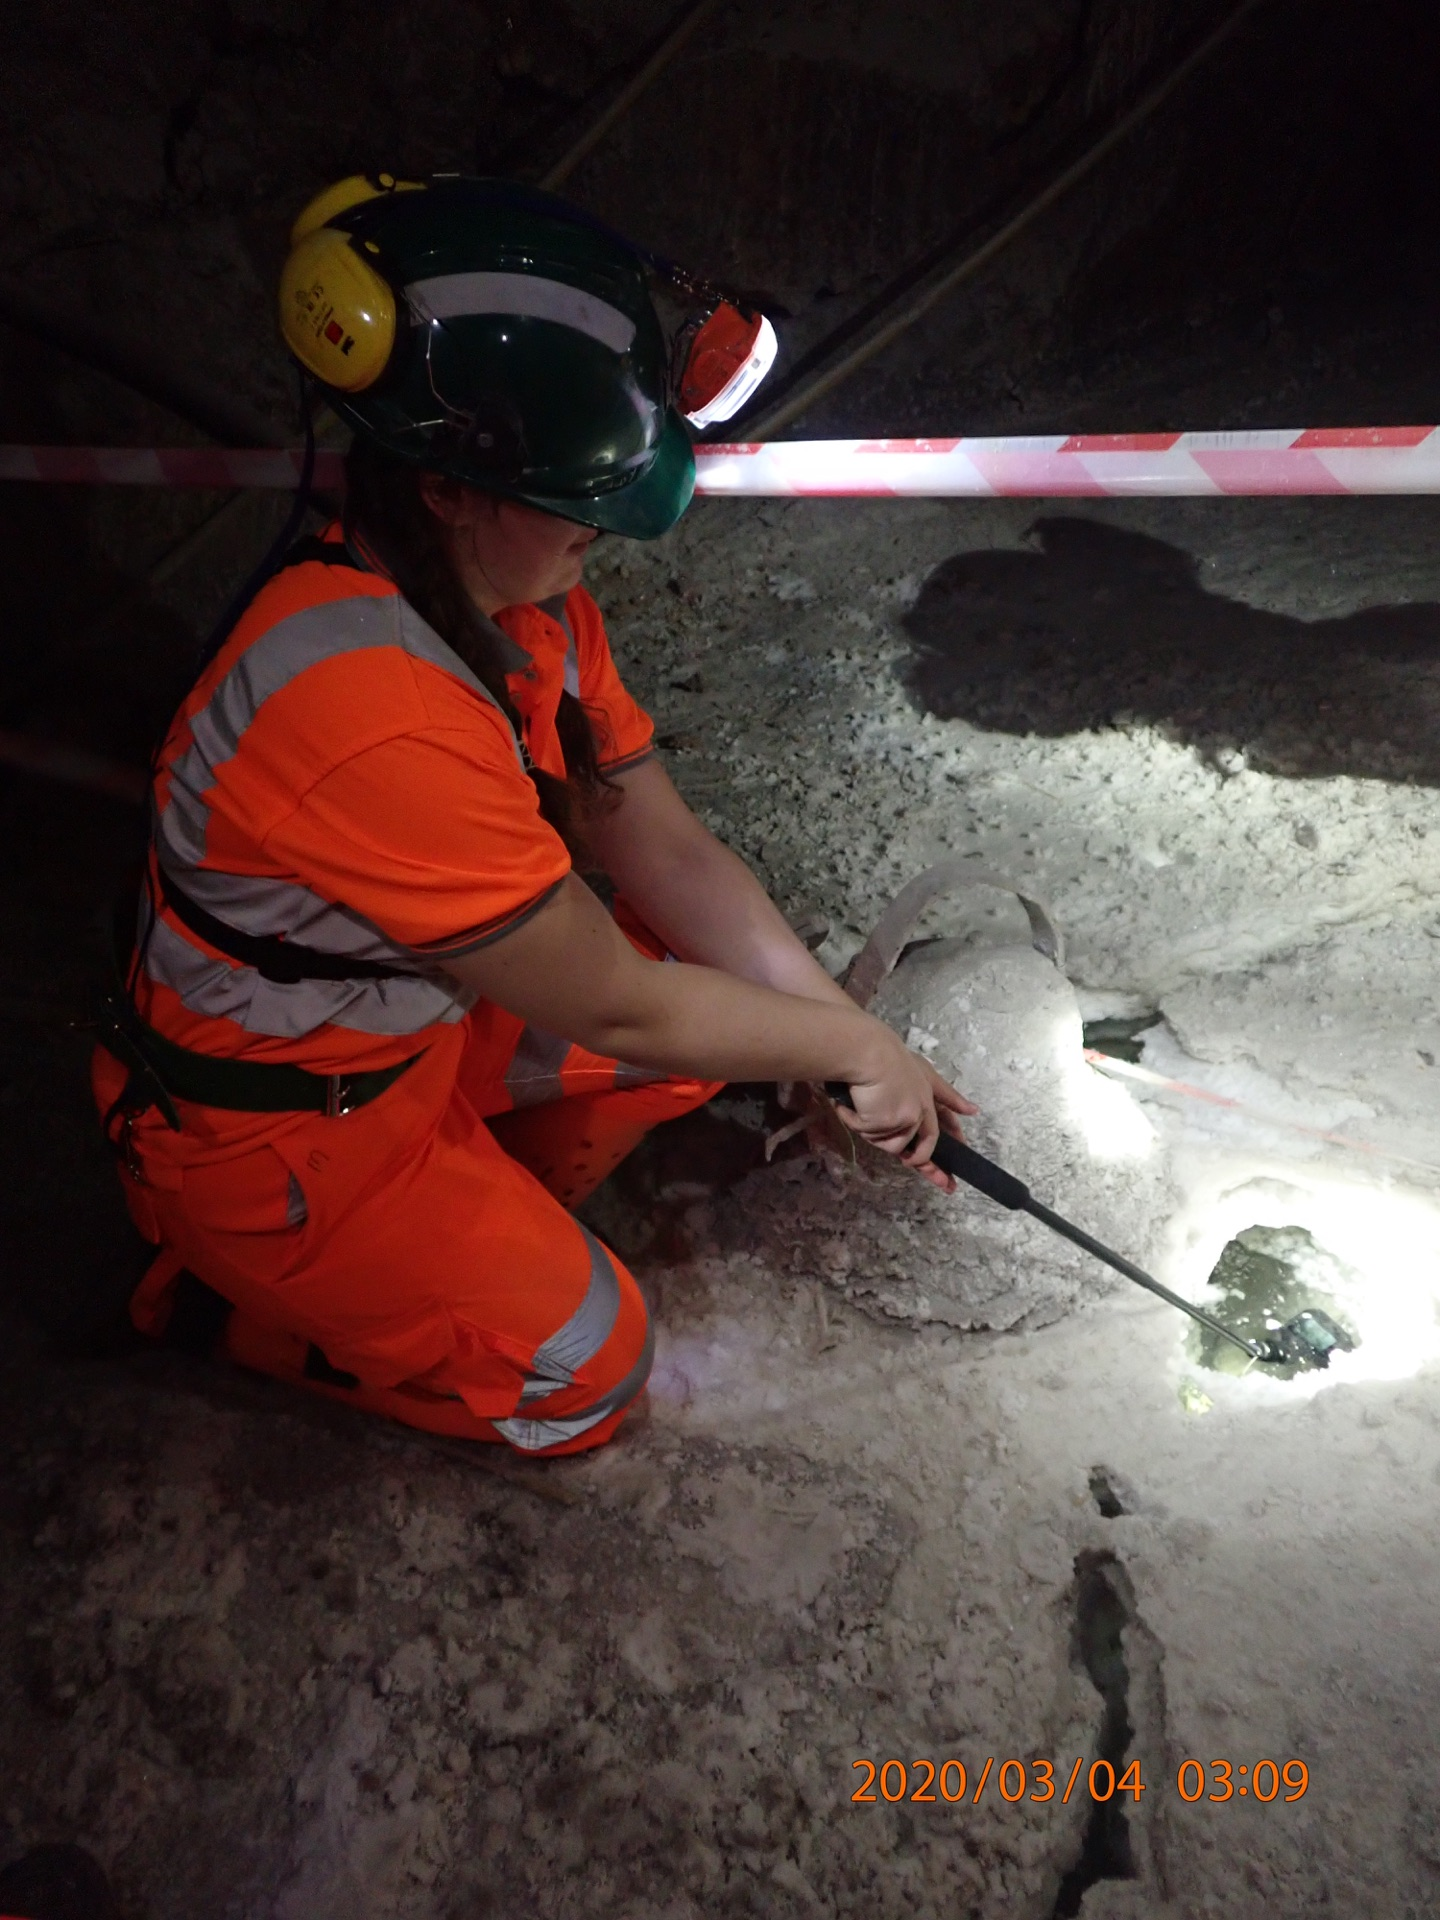
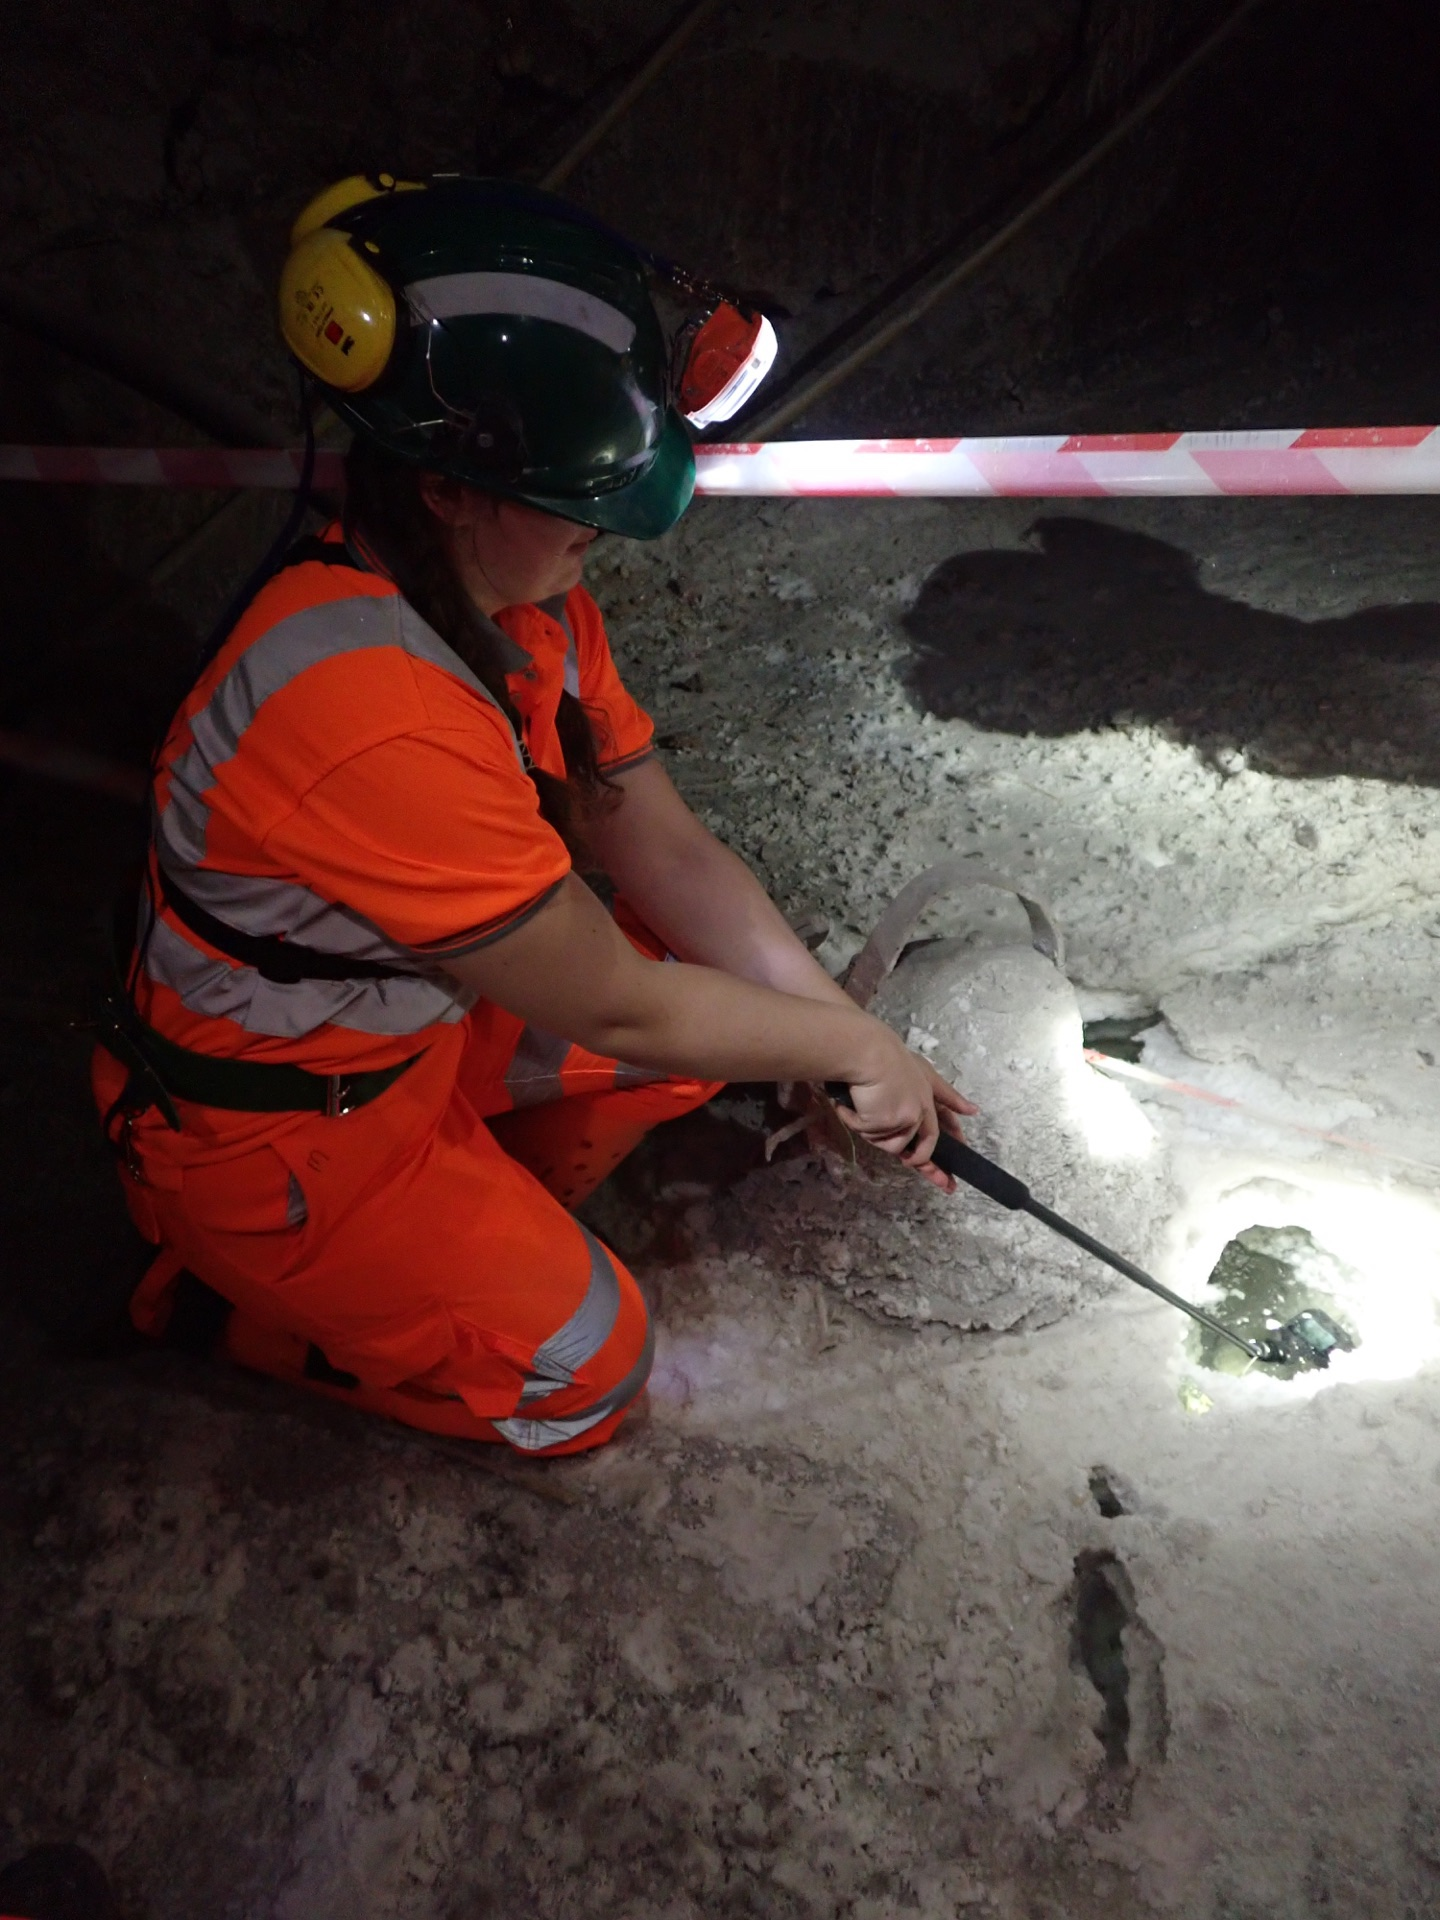
changes

Changed region(s): [[0.5312, 0.875, 0.9062, 1.0]]

diff --git a/src/overlay/ZoomStack.ts b/src/overlay/ZoomStack.ts
@@ -4,6 +4,10 @@ import { setLayerVisible } from './layerVisibility'
 
 /** How long one push takes before the picture holds. */
 const PUSH_MS = 1700
+/** Dolly from the inclusion ladder into the microbe clip. */
+const HANDOFF_MS = 1600
+/** Optical zoom factor for the zoom → video handoff. */
+const HANDOFF_ZOOM = 2.6
 /** Where in the push a dissolve starts and ends, as a fraction of the ease. */
 const FADE_IN = 0.2
 const FADE_OUT = 0.85
@@ -133,9 +137,77 @@ export class ZoomStack {
   setVisible(visible: boolean) {
     const was = this.onStage
     this.onStage = visible
+    if (!visible) {
+      cancelAnimationFrame(this.raf)
+      this.root.classList.remove('is-handing-off')
+      this.root.style.opacity = ''
+    }
     setLayerVisible(this.root, visible)
     // Coming onto the ladder from another beat should land, not fly in.
     if (visible && !was) this.snapOnShow = true
+  }
+
+  /**
+   * Keep punching into the current frame, then fade the ladder away — used
+   * when the microbe clip takes over so the cut reads as a zoom, not a jump.
+   */
+  punchIntoVideo(factor = HANDOFF_ZOOM, ms = HANDOFF_MS): Promise<void> {
+    return new Promise((resolve) => {
+      if (this.current < 0 || this.view.w <= 1) {
+        this.setVisible(false)
+        resolve()
+        return
+      }
+
+      cancelAnimationFrame(this.raf)
+      this.setScaleVisible(false)
+      this.fading = null
+      this.root.classList.add('is-handing-off')
+      this.root.style.opacity = '1'
+
+      const from = { ...this.view }
+      const toW = from.w / factor
+      const toH = from.h / factor
+      const to = {
+        x: from.x + (from.w - toW) / 2,
+        y: from.y + (from.h - toH) / 2,
+        w: toW,
+        h: toH,
+      }
+      const dur = this.reducedMotion ? 180 : ms
+      const start = performance.now()
+
+      const step = (now: number) => {
+        const t = Math.min(1, (now - start) / dur)
+        const e = easeInOut(t)
+        const w = Math.exp(Math.log(from.w) + (Math.log(to.w) - Math.log(from.w)) * e)
+        const h = w * (to.h / to.w)
+        const fromCx = from.x + from.w / 2
+        const fromCy = from.y + from.h / 2
+        const toCx = to.x + to.w / 2
+        const toCy = to.y + to.h / 2
+        this.view = {
+          x: fromCx + (toCx - fromCx) * e - w / 2,
+          y: fromCy + (toCy - fromCy) * e - h / 2,
+          w,
+          h,
+        }
+        // Hold full opacity through the first third, then dissolve onto the clip.
+        const fade =
+          t < 0.32 ? 1 : 1 - easeInOut(Math.min(1, (t - 0.32) / 0.68))
+        this.root.style.opacity = fade.toFixed(3)
+        this.apply()
+        if (t < 1) {
+          this.raf = requestAnimationFrame(step)
+          return
+        }
+        this.root.style.opacity = ''
+        this.root.classList.remove('is-handing-off')
+        this.setVisible(false)
+        resolve()
+      }
+      this.raf = requestAnimationFrame(step)
+    })
   }
 
   private frameRect(index: number): View {

diff --git a/src/scene/constellation/MineralConstellation.tsx b/src/scene/constellation/MineralConstellation.tsx
@@ -1,4 +1,13 @@
-import { Suspense, useCallback, useEffect, useMemo, useRef, useState, type ReactNode } from 'react'
+import {
+  Suspense,
+  useCallback,
+  useEffect,
+  useLayoutEffect,
+  useMemo,
+  useRef,
+  useState,
+  type ReactNode,
+} from 'react'
 import { Canvas, useFrame, useThree } from '@react-three/fiber'
 import { Html, OrbitControls, Stars } from '@react-three/drei'
 import * as THREE from 'three'
@@ -1583,18 +1592,8 @@ function CameraRig({
       }
     }
 
-    if (!scripted) {
-      if (phase === 'sky') look.current.set(0, 0.2, 0)
-      else if (phase === 'peers') look.current.copy(HERO.pos)
-      hallWalkActive = false
-      pullFromHero.current = false
-      if (!settled.current) {
-        settled.current = true
-        onSettle?.(true)
-      }
-      return
-    }
-
+    // Arm phase changes even if OrbitControls is briefly enabled — otherwise
+    // peri→sky never starts its dolly and the view snaps.
     const phaseChanged = phase !== prevPhase.current
     const focusChanged = focusId !== prevFocus.current
 
@@ -1688,6 +1687,26 @@ function CameraRig({
       if (phase === 'reveal' && !revealEnter.current) {
         revealBlend = 1
       }
+    }
+
+    // Orbit only after the scripted ease finishes. Mid-dolly always stays driven.
+    const orbitOwnsCamera =
+      !scripted &&
+      progress.current >= 1 &&
+      !pullFromHero.current &&
+      !revealEnter.current &&
+      !walkActive.current &&
+      phase !== 'dive'
+
+    if (orbitOwnsCamera) {
+      if (phase === 'sky') look.current.set(0, 0.2, 0)
+      else if (phase === 'peers') look.current.copy(HERO.pos)
+      hallWalkActive = false
+      if (!settled.current) {
+        settled.current = true
+        onSettle?.(true)
+      }
+      return
     }
 
     if (!focus && phase === 'dive') {
@@ -1910,14 +1929,18 @@ function Scene({
   onDiveProgress?: (wash: number, done: boolean) => void
 }) {
   const inHall = inHallPhase(phase)
-  const [camSettled, setCamSettled] = useState(true)
+  // Start unsettled so OrbitControls cannot steal the first peri→sky dolly frame.
+  const [camSettled, setCamSettled] = useState(false)
   const canOrbit = phase === 'sky' || phase === 'peers'
   const orbit = active && canOrbit && !focusId && !reduced && camSettled
+  // Keep CameraRig driving the camera until the dolly settles — orbit only after.
   const scripted = !orbit
   const litIds = litIdsForPhase(phase)
   const dimField = litIds != null
 
-  useEffect(() => {
+  // Layout (before paint / useFrame) so sky never enables orbit on the same
+  // commit as the phase change — that was snapping the view instead of zooming.
+  useLayoutEffect(() => {
     setCamSettled(reduced)
   }, [phase, focusId, reduced])
 

diff --git a/src/overlay/OverlayManager.ts b/src/overlay/OverlayManager.ts
@@ -40,6 +40,8 @@ export class OverlayManager {
   private copyShown = false
   private titleKey = ''
   private titleShown = false
+  /** Prior beat stage — detects the zoom-ladder → microbe-clip handoff. */
+  private lastStage: string | null = null
 
   constructor() {
     this.copyEl = el('beat-copy')
@@ -96,11 +98,20 @@ export class OverlayManager {
 
     this.anchor.set(beat.anchor ?? 'hidden', beat.fit ?? 'contain')
 
+    const zoomToVideo =
+      this.lastStage === 'zoom' && stage === 'video' && videoActive
+
     this.setPhoto(frame, stage === 'photo' && !videoActive)
-    this.setZoom(frame, stage === 'zoom')
     this.setDiagram(frame, stage === 'diagram')
     this.setCompare(frame, stage === 'compare')
-    void this.setVideo(frame, videoActive, token)
+
+    if (zoomToVideo) {
+      // Keep the inclusion frame up and punch into the microbe clip.
+      void this.handoffZoomToVideo(frame, token)
+    } else {
+      this.setZoom(frame, stage === 'zoom')
+      void this.setVideo(frame, videoActive, token)
+    }
 
     // Compare parks its subject on the right; keep the line from running wide.
     this.copyEl.classList.toggle('is-beside', stage === 'compare')
@@ -108,6 +119,14 @@ export class OverlayManager {
     this.setTitleCard(frame)
     this.setCopy(frame)
     this.setLabels(frame)
+    this.lastStage = stage
+  }
+
+  /** Fluid-inclusions ladder → bacteria clip: zoom in, then dissolve. */
+  private async handoffZoomToVideo(frame: BeatFrame, token: number) {
+    void this.setVideo(frame, true, token)
+    await this.zoom.punchIntoVideo()
+    if (token !== this.renderToken) return
   }
 
   // ── Layers ────────────────────────────────────────────────────────────

diff --git a/src/beats/catalog.ts b/src/beats/catalog.ts
@@ -146,7 +146,6 @@ const BEATS_RAW: BeatDefinition[] = [
     scene: 'none',
     fit: ANCHOR_FIT,
     headline: 'Halite. Rock salt.',
-    supporting: 'Searles Lake, California.',
   },
 
   // ─── Act 2 · The Place ─────────────────────────────────────────────────

diff --git a/src/styles/presentation.css b/src/styles/presentation.css
@@ -320,6 +320,12 @@ body {
   opacity: 1;
 }
 
+/* Stay above the microbe clip while the inclusion ladder punches in. */
+.zoom-layer.is-handing-off {
+  z-index: calc(var(--z-picture) + 1);
+  transition: none;
+}
+
 .video-layer {
   opacity: 0;
   transition: opacity 0.7s ease;

diff --git a/docs/run-of-show.md b/docs/run-of-show.md
@@ -96,9 +96,10 @@ drop of that lake, sealed in salt." Water only — not life.
 
 ### Act 4 — The Life (3:50, 1:30)
 
-**3:50 · Something Moves** — the microbe clip, full bleed, **silent, no
-caption, no headline**. This is the first answer to the cold open, and it must
-be the quietest slide in the talk. Say nothing for at least eight seconds. Let
+**3:50 · Something Moves** — press zooms into the inclusion frame, then
+dissolves onto the microbe clip. Full bleed, **silent, no caption, no
+headline**. This is the first answer to the cold open, and it must be the
+quietest slide in the talk. Say nothing for at least eight seconds. Let
 someone in the room notice first.
 Press: *Something in there is moving.* Press: *That is a living cell, inside
 the salt.*
